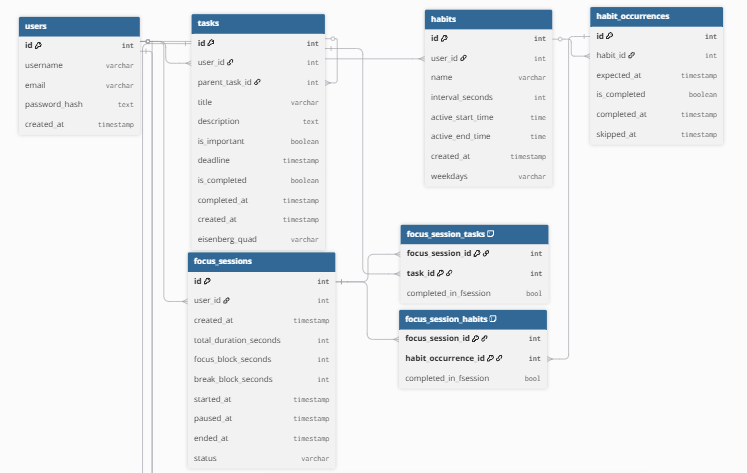
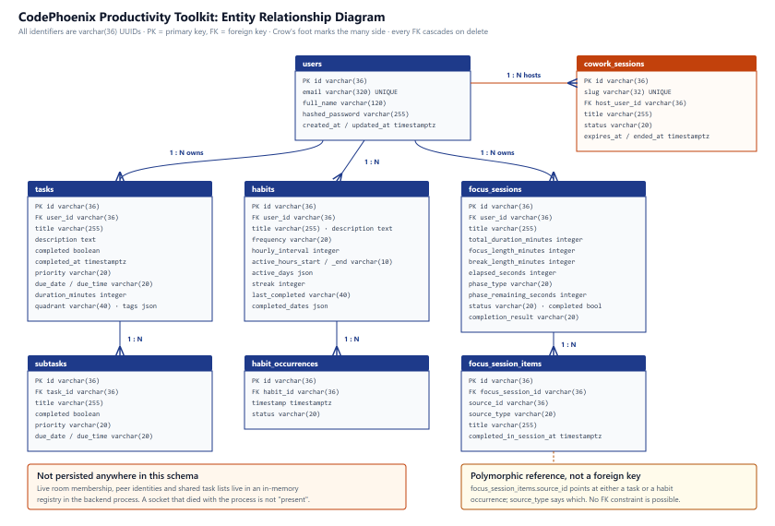
Final cleanup and fixed an error in HabitSchedule.test.ts which prevented it from passing in local environment

Changed region(s): [[0.0, 0.0, 0.9853, 1.0], [0.0308, 0.1776, 0.1232, 0.2664]]

diff --git a/Frontend/src/lib/habitSchedule.test.ts b/Frontend/src/lib/habitSchedule.test.ts
@@ -5,7 +5,10 @@ import {
   canCompleteHabitNow,
   formatHabitNextOccurrence,
   isHabitCurrentlyActive,
+  localDateKey,
 } from "./habitSchedule";
+
+
 
 function makeHabit(overrides: Partial<Habit> = {}): Habit {
   return {
@@ -40,8 +43,12 @@ describe("habitSchedule", () => {
       .filter(slot => slot.start.getHours() === 7)
       .every(slot => slot.label.includes("7:00 AM"))).toBe(true);
 
-    const completedSlot = slots.find(slot => slot.start.toISOString().startsWith("2026-07-08T13"));
+    const completedSlot = slots.find(slot => localDateKey(slot.start) === "2026-07-08" && slot.start.getHours() === 13
+    );
     expect(completedSlot?.status).toBe("completed");
+
+    // const completedSlot = slots.find(slot => slot.start.toISOString().startsWith("2026-07-08T13"));
+    // expect(completedSlot?.status).toBe("completed");
   });
 
   it("skips inactive days for daily habits and keeps today pending", () => {
